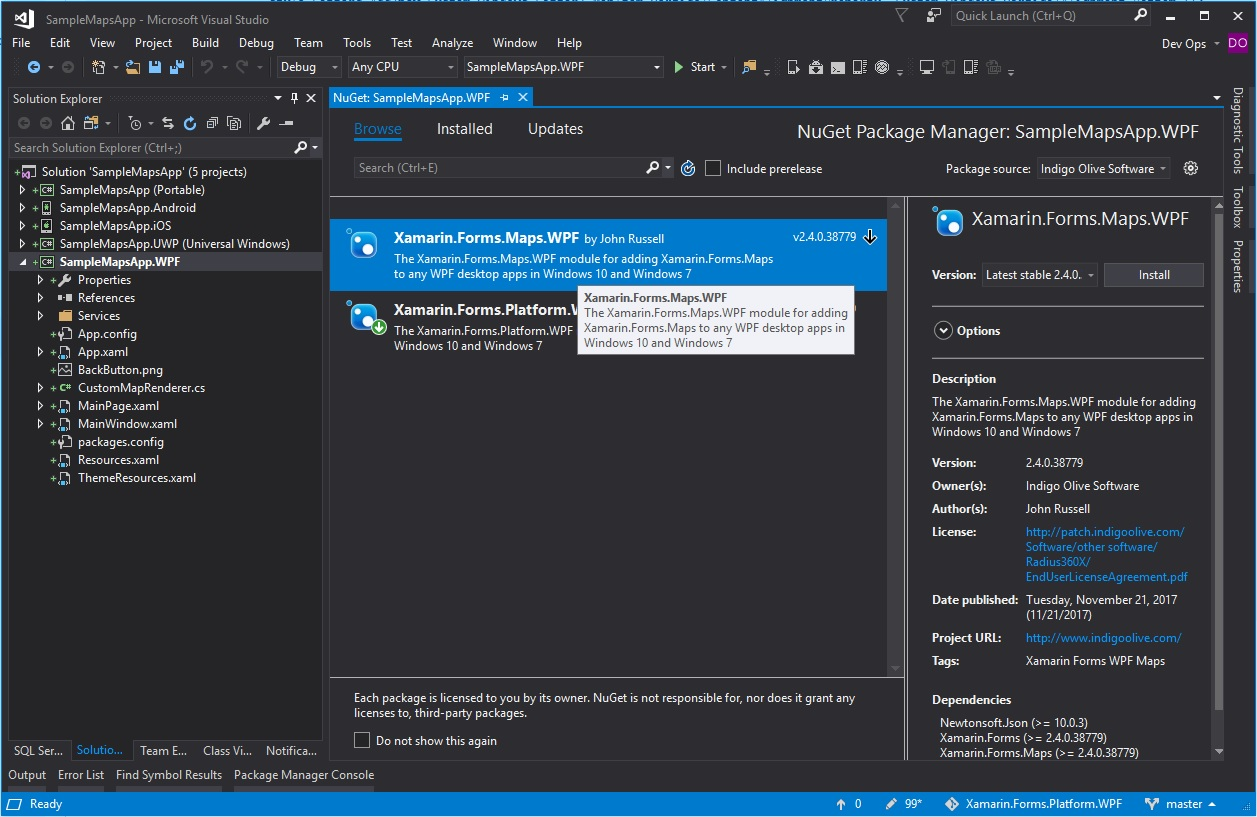
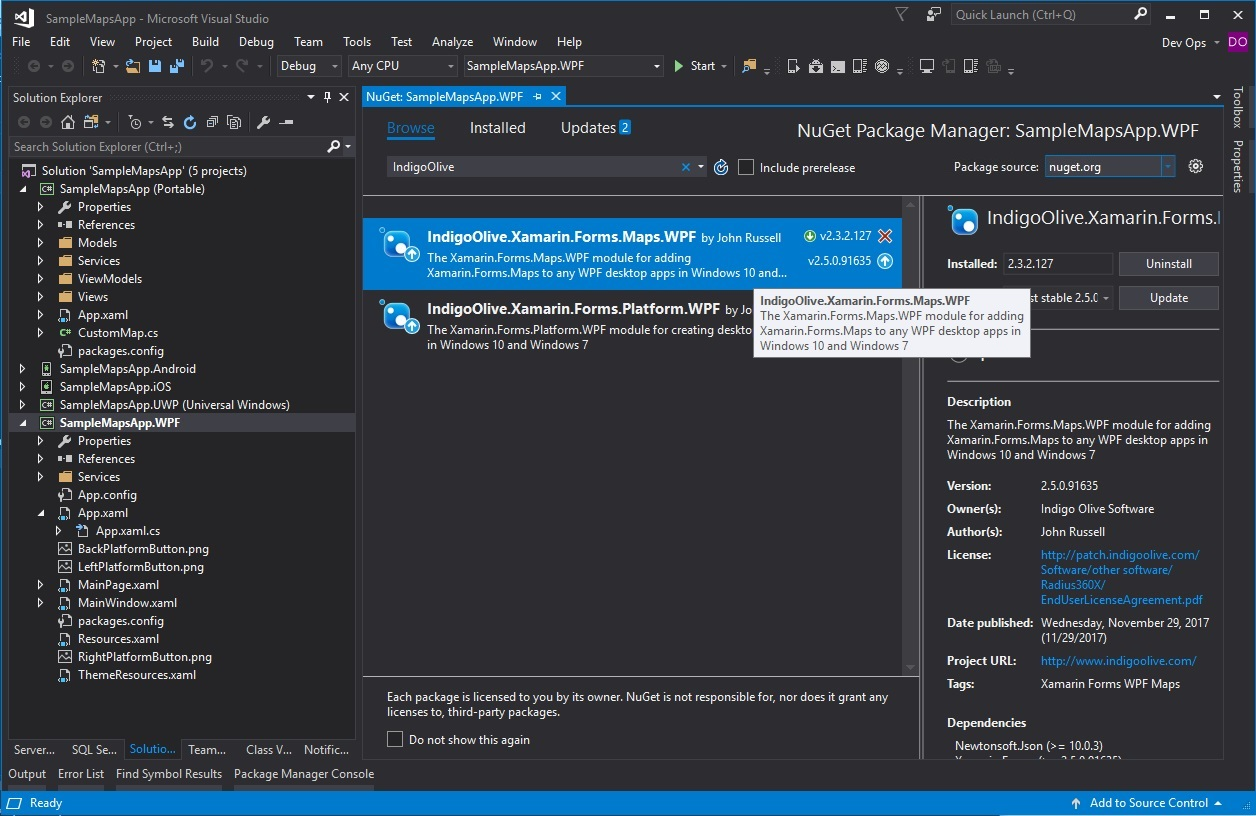
Added IndigoOlive NuGets

diff --git a/ReadMe.md b/ReadMe.md
@@ -55,7 +55,7 @@ Give the project the name: SampleMapsApp.WPF
 
 Finally press Ok.
 
-### Add the Xamarin.Forms.Platform.WPF Nuget to the WPF Application
+### Add the IndigoOlive.Xamarin.Forms.Platform.WPF Nuget to the WPF Application
 
 Right click the SampleMapsApp.WPF project.
 
